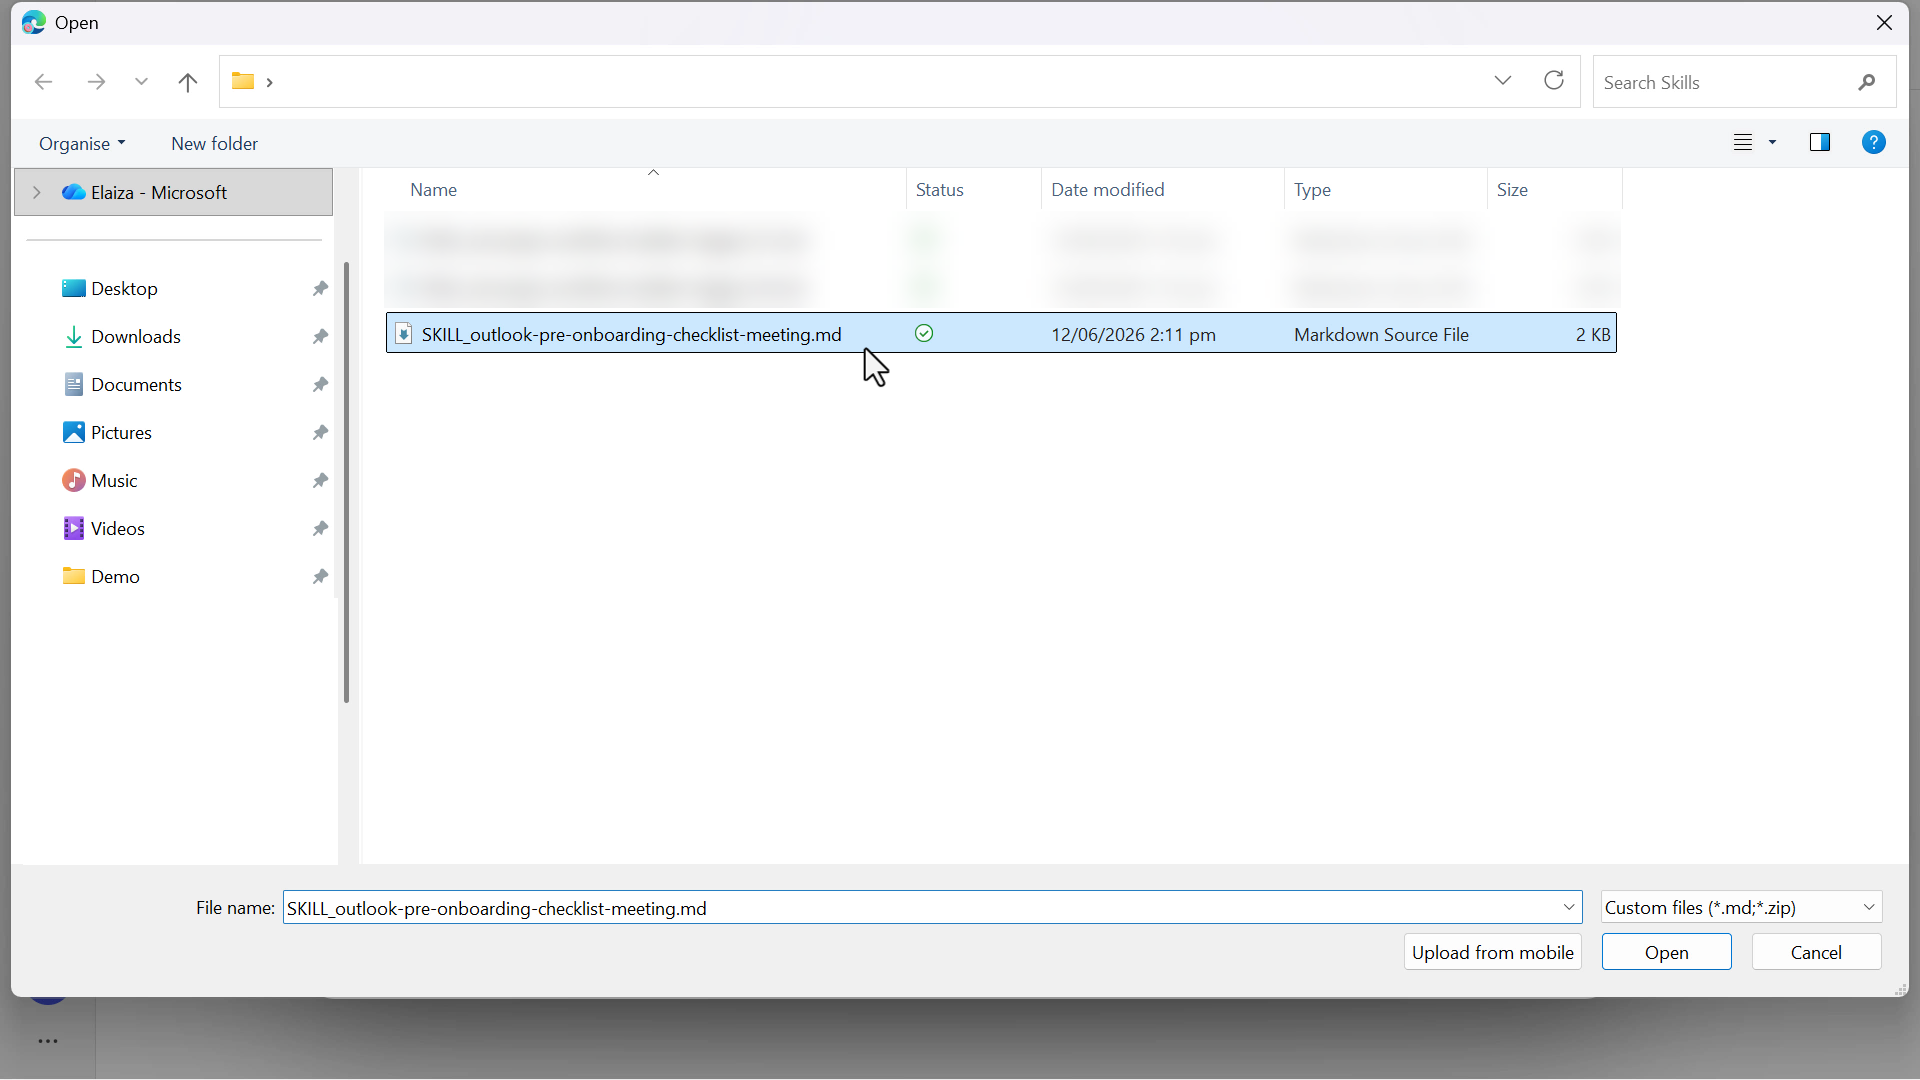
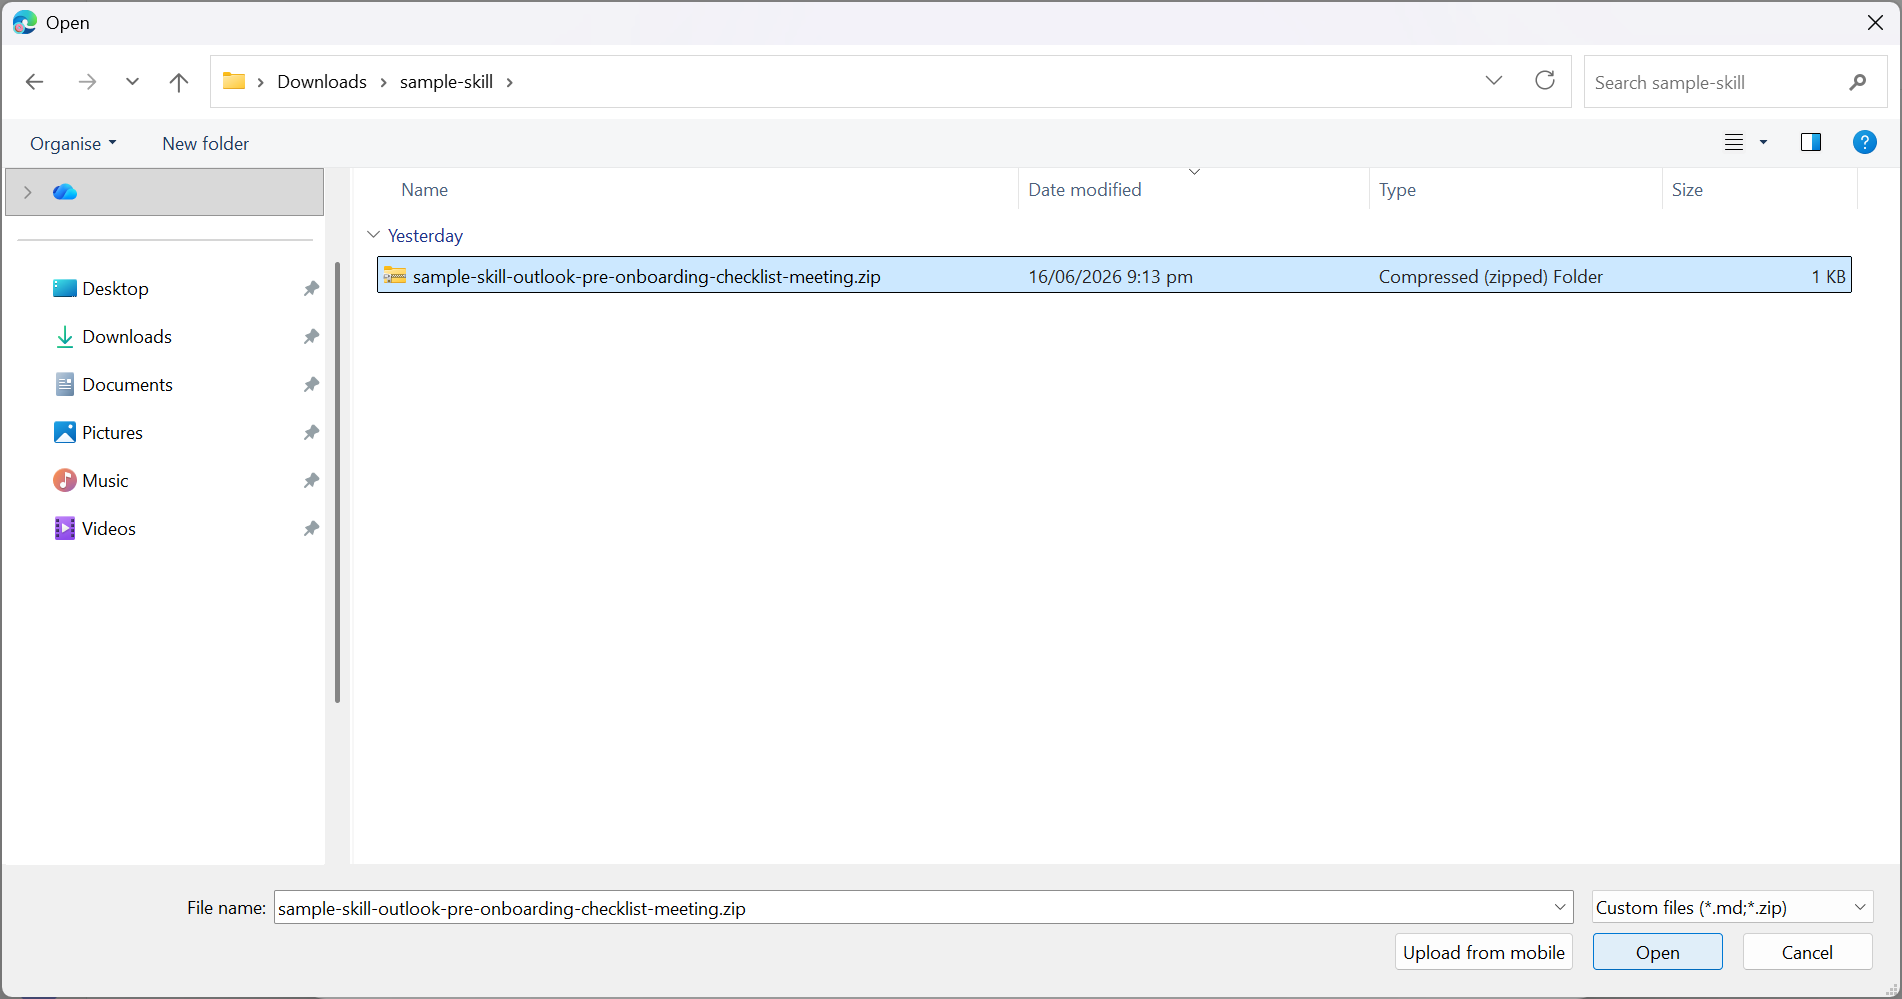
- Renamed skill file to SKILL.md in docs\special-ops\docusign-mcp\assets\sample-skill\SKILL.md - Repackaged docs\special-ops\docusign-mcp\assets\sample-skill\sample-skill-outlook-pre-onboarding-checklist-meeting.zip to use latest version of SKILL.md - Uploaded updated screenshot image in docs\specia

diff --git a/docs/special-ops/docusign-mcp/assets/sample-skill/SKILL.md b/docs/special-ops/docusign-mcp/assets/sample-skill/SKILL.md
@@ -1,0 +1,34 @@
+---
+name: outlook-pre-onboarding-checklist-meeting
+description: >-
+  Create a 1-hour Outlook follow-up meeting for pre-onboarding after a successful
+  Docusign workflow trigger, using the employee name and agreement effective date
+  from workflow context.
+license: MIT
+metadata:
+  author: elaiza-benitez
+  version: 1.0.0
+---
+
+# Outlook Pre-Onboarding Checklist Meeting
+
+Use this skill after the Docusign workflow trigger succeeds and workflow context includes
+`Employee Full Name` and agreement `Effective Date`.
+
+## Instructions
+
+- After confirming the workflow was triggered successfully, automatically create a 1-hour Outlook meeting in the user's calendar without asking for any additional input by invoking the `Work IQ Calendar (Preview)` tool.
+- Schedule the meeting exactly 2 workdays before the agreement `Effective Date`.
+- Ensure the computed meeting date does not fall on Saturday or Sunday. Do not use modular arithmetic.
+- Use the user's work hours for the meeting start time.
+- Hardcode the time zone to `(UTC+12:00) Auckland, Wellington`.
+- Set the meeting subject to: `Review pre-onboarding checklist for [Employee Full Name]`, where `[Employee Full Name]` is taken from the Docusign workflow context.
+- Send a response confirming that the meeting has been created.
+- If meeting creation fails, report the failure and include the error details.
+
+## Rules
+
+- Do not ask the user for any additional meeting details.
+- Always use the `Employee Full Name` from workflow context.
+- Always use the agreement `Effective Date` from workflow context.
+- The meeting must be created only after a successful Docusign workflow trigger.

diff --git a/docs/special-ops/docusign-mcp/index.md b/docs/special-ops/docusign-mcp/index.md
@@ -1479,7 +1479,7 @@ Let's begin!
 
    If the request cannot be fulfilled using available workflows or tools, clearly explain the limitation and suggest next steps.
 
-   If the user needs to provide missing information, provide the field name from the variables of the workflow with a corresponding field description
+   If the user needs to provide missing information, provide the field name from the variables of the workflow with a corresponding field description.
 
    Confirm with the user that all information is correct before triggering the workflow. If the user confirms the information is correct, trigger the workflow. If the user confirms the information is incorrect, do not trigger the workflow.
    ```
@@ -1520,7 +1520,7 @@ Let's begin!
 
     ![Enter credentials](assets/1.5_07_LogIn.png)
 
-   You may be asked to verify your identity which is in the form of a SMS code or phone call. Once you complete the verification, continue to the next step.
+   You may be asked to verify your identity which is in the form of an SMS code or phone call. Once you complete the verification, continue to the next step.
 
 1. The connection is created and you'll see a green tick icon. Select **Next**.
 
@@ -1647,7 +1647,7 @@ Refer to the [IT Admin Guide](https://www.microsoft.com/microsoft-365-copilot/fr
    Enter the following text below the **Docusign Workflow Builder** section.
 
    ```text
-   ## Schedule Outlook meeting   
+   ## Schedule Outlook meeting
    When the workflow has successfully been triggered, use the `outlook-pre-onboarding-checklist-meeting` skill to create the Outlook meeting.
    ```
 
@@ -1665,9 +1665,9 @@ Refer to the [IT Admin Guide](https://www.microsoft.com/microsoft-365-copilot/fr
 
 1. Download the sample skill package using the button below.
 
-   <download-files path="special-ops/docusign-mcp/assets/sample-skill" />
+    <download-files path="special-ops/docusign-mcp/assets/sample-skill" />
 
-   Extract the `.zip` file, then upload the `.md` skill file into the agent.
+    Download `sample-skill.zip`, extract it, then upload the `sample-skill-outlook-pre-onboarding-checklist-meeting.zip` file into the agent.
 
     ![Select Skill file](assets/1.6_05_SelectSkillFile.png)
 
@@ -1685,7 +1685,7 @@ Refer to the [IT Admin Guide](https://www.microsoft.com/microsoft-365-copilot/fr
    - Create a 1-hour Outlook meeting through Work IQ Calendar (Preview).
    - Schedule it exactly 2 workdays before the effective date.
    - Use the user’s work hours and force the timezone to UTC+12 Auckland/Wellington.
-   - Set the subject to: Review pre-onboarding checklist for [Employee Fullname].
+   - Set the subject to: Review pre-onboarding checklist for [Employee Full Name].
    - Confirm success, or return error details if meeting creation fails.
    - Never ask the user for extra meeting input.
 